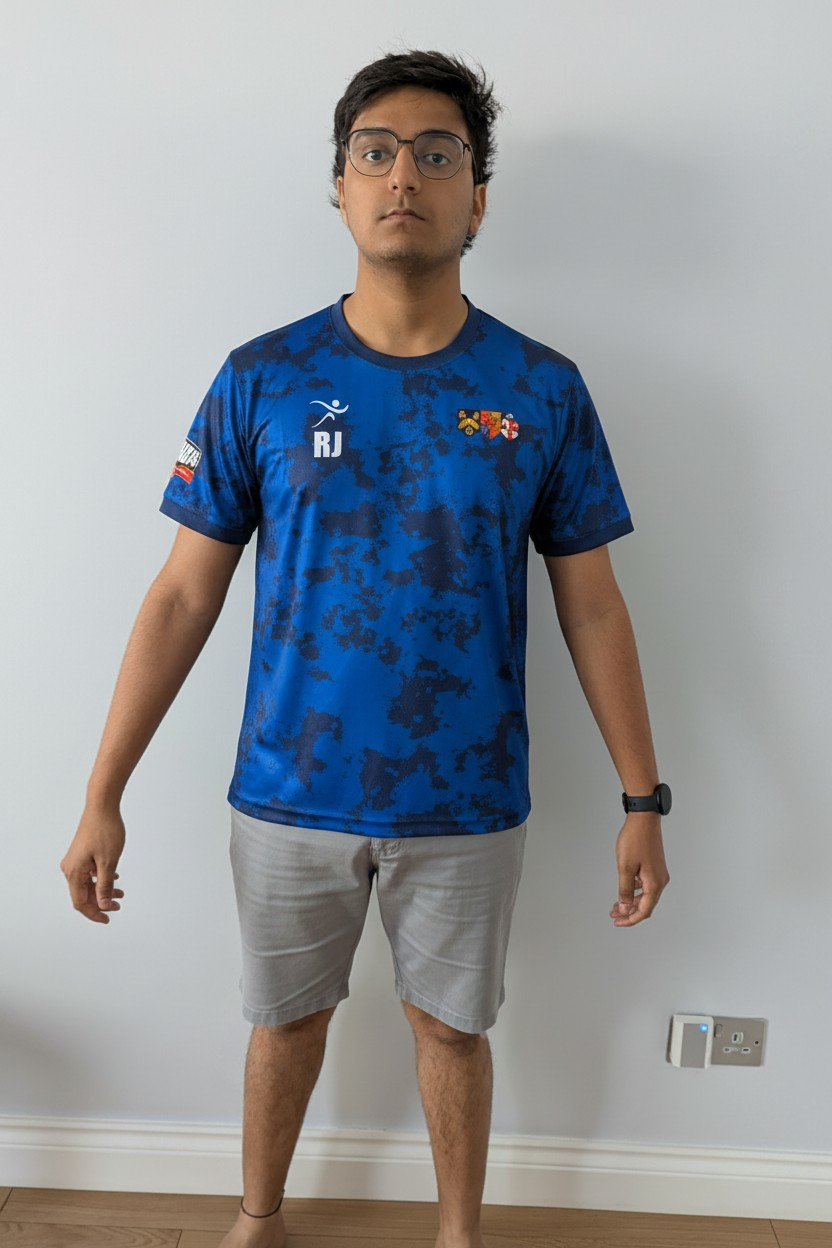
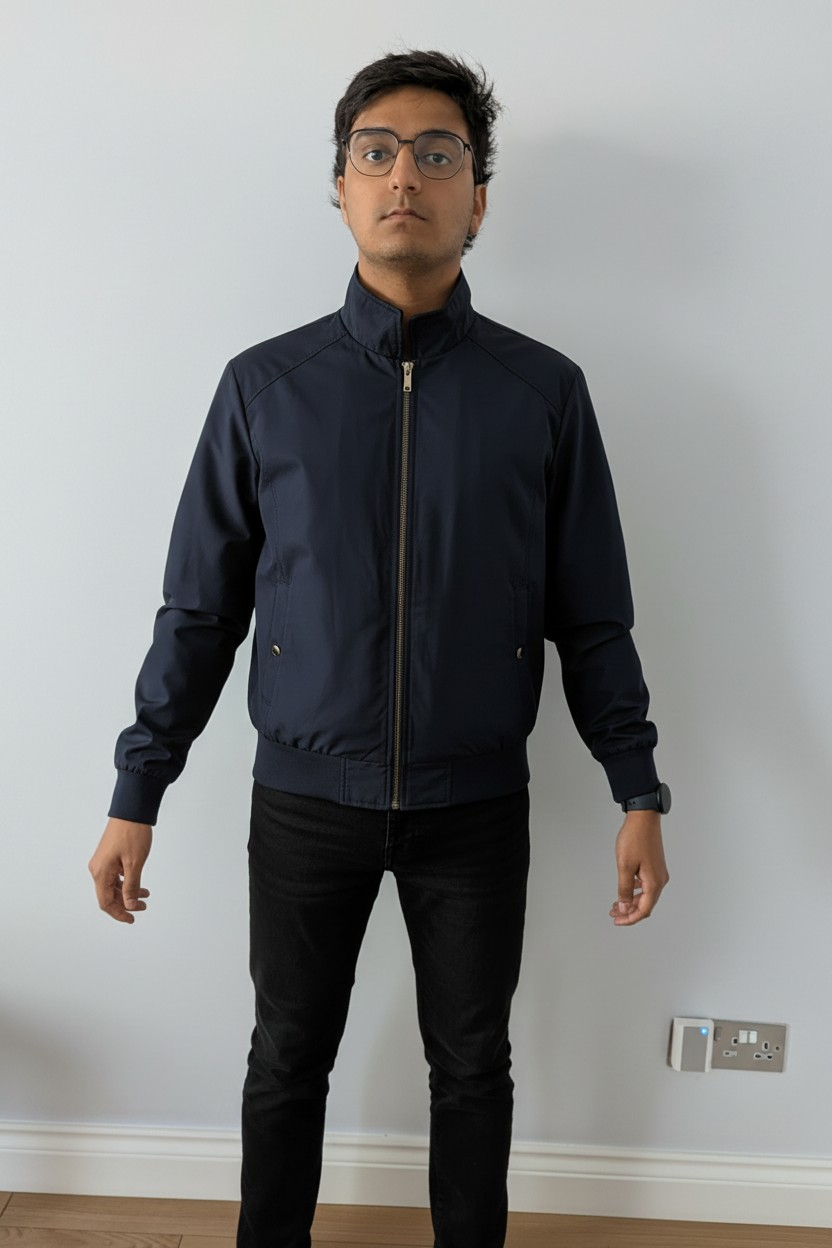
Added some changes to the models used to test

diff --git a/clothing_recommendation.py b/clothing_recommendation.py
@@ -4,6 +4,7 @@ from dotenv import load_dotenv # Used to get data from the .env file
 import os
 import json
 import sys
+import time
 
 
 load_dotenv()
@@ -48,17 +49,34 @@ def generateLLMResponse(weather, location, clothes, events):
               "confidence": 0
             }
           }"""
-    try:
-      llmResponse = client.models.generate_content_stream(
-          model = "gemini-3.5-flash",
-          contents = f"Tomorrow I will be in {location}. Here is the weather tomorrow in {location} : {weather}. Here is a list of the clothes that I own : {clothes}. Here are the events that I have today {events}. Based on this, give me 2 outfit recommendations using the clothes that I have - 1 outfit that would suit the weather conditions and the events I have tomorrow perfectly, and 1 backup option. If necessary, I can pack a bag with another set of clothes if an event I have requires a change of clothes, but don't include multiple outfit changes - I can only take 1 bag with 1 outfit inside! The colour of the clothing should be considered when making a decision - both the top and bottom ideally shouldn't be the same unless required. Give me a confidence score out of 10 for both of these options. Don't add extra details about the clothes, only use the details that are provided. Return your response in a JSON format like this: {jsonFormat}. Return only the JSON object. Don't include markdown or any explanations!"
-      )
+    content = f"Tomorrow I will be in {location}. Here is the weather tomorrow in {location} : {weather}. Here is a list of the clothes that I own : {clothes}. Here are the events that I have today {events}. Based on this, give me 2 outfit recommendations using the clothes that I have - 1 outfit that would suit the weather conditions and the events I have tomorrow perfectly, and 1 backup option. If necessary, I can pack a bag with another set of clothes if an event I have requires a change of clothes, but don't include multiple outfit changes - I can only take 1 bag with 1 outfit inside! The colour of the clothing should be considered when making a decision - both the top and bottom ideally shouldn't be the same unless required. Give me a confidence score out of 10 for both of these options. Don't add extra details about the clothes, only use the details that are provided. Return your response in a JSON format like this: {jsonFormat}. Return only the JSON object. Don't include markdown or any explanations!"
+    
+    MAX_ATTEMPTS = 7
 
-      output = ""
-      for chunks in llmResponse:
-          output += chunks.text
-      jsonOutput = json.loads(output)
-      print(jsonOutput)
-      return jsonOutput
-    except google.genai.errors.ServerError:
-      sys.exit("Server is experiencing high demand, please try later")
+    for i in range(MAX_ATTEMPTS):
+      try:
+        llmResponse = client.models.generate_content_stream(
+            model = "gemini-3.5-flash",
+            contents = content
+        )
+
+        output = ""
+        for chunks in llmResponse:
+            output += chunks.text
+        jsonOutput = json.loads(output)
+        print(jsonOutput)
+        return jsonOutput
+      except google.genai.errors.ServerError:
+        if i == MAX_ATTEMPTS-1:
+           raise google.genai.errors.ServerError
+        else:
+            waitTime = 15 * (2 ** i)
+
+        print(
+            f"Gemini server busy. "
+            f"Retrying in {waitTime} seconds "
+            f"({i + 1}/{MAX_ATTEMPTS})..."
+        )
+
+        time.sleep(waitTime)
+        

diff --git a/main.py b/main.py
@@ -32,11 +32,11 @@ userImageURL = "https://res.cloudinary.com/dytqwfesq/image/upload/v1782742488/PX
 
 
 def main():
-    location = location.getLocation()
+    userLocation = location.getLocation()
     attachmentImages = []
     #city = input("Enter a city : ")
     #weatherData = weather.getCurrentWeather(city)
-    weatherData = weather.getWeatherForDay(location)
+    weatherData = weather.getWeatherForDay(userLocation)
     clothes = wardrobe.getClothes()
 
     calendarInfo = GoogleCalendar.main()
@@ -44,7 +44,8 @@ def main():
     userEmail = calendarInfo["Email"]
 
     
-    recommendation = c_r.generateLLMResponse(weatherData, location, clothes, events)
+    recommendation = c_r.generateLLMResponse(weatherData, userLocation, clothes, events)
+    #print(recommendation)
     
     userWardrobe = wardrobe.loadWardrobe()
 

diff --git a/wardrobe.py b/wardrobe.py
@@ -18,7 +18,7 @@ def loadWardrobe():
         data = csv.reader(f)
         for row in data:
             clothesDict[row[0]] = row[-1].replace(" ", "") 
-    print(clothesDict)
+    #print(clothesDict)
     return clothesDict
 
 # def getClothingImages(wardrobe, recommendation):

diff --git a/location.py b/location.py
@@ -32,4 +32,3 @@ def determineHoliday(data):
             return True
         return False
 
-print(getLocation())
